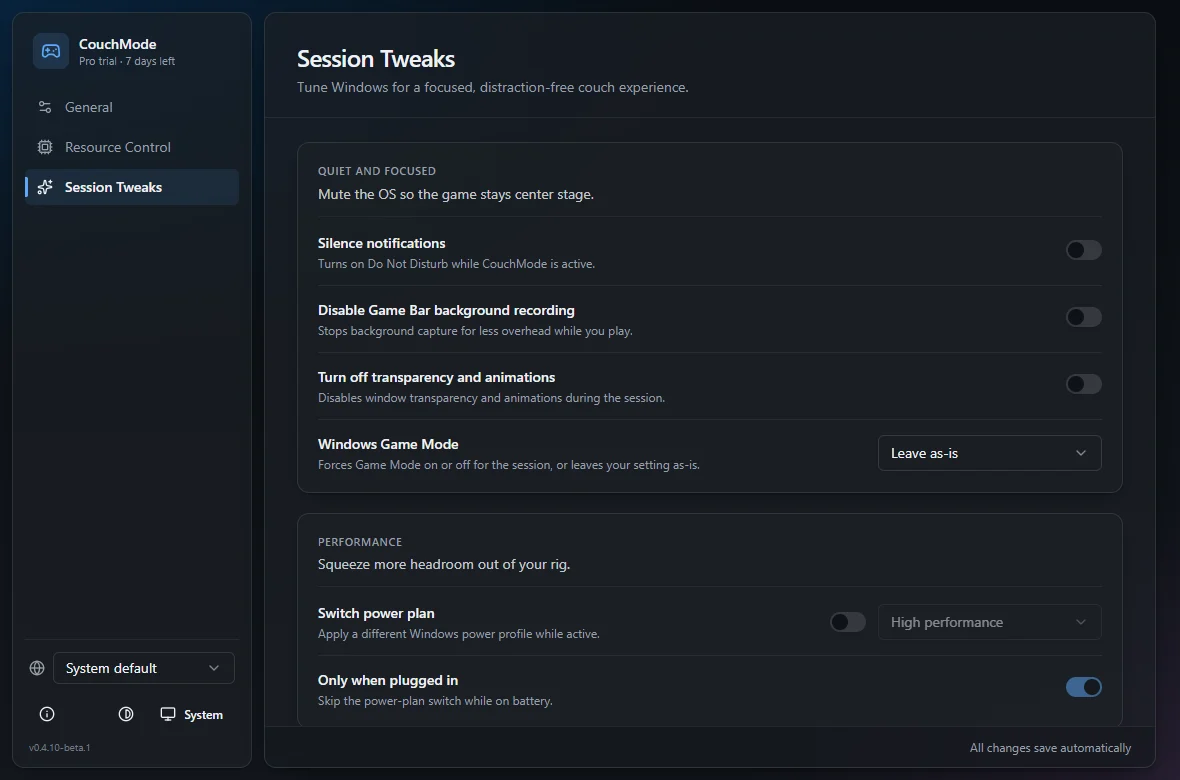
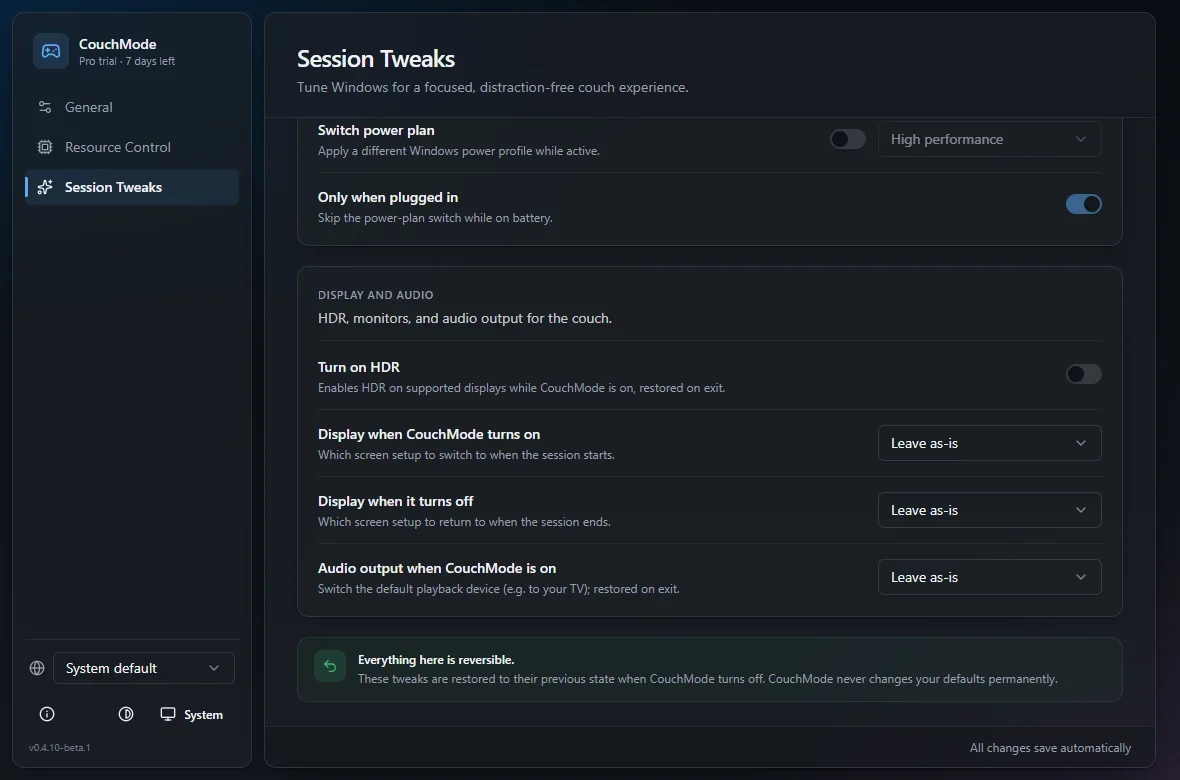
Add inside app showcase

diff --git a/src/components/landing/ProductScreenshots.tsx b/src/components/landing/ProductScreenshots.tsx
@@ -1,54 +1,100 @@
+import { ChevronLeft, ChevronRight } from "lucide-react";
+import { useRef } from "react";
+
 const screenshots = [
   {
     src: "/screenshots/couchmode-general.webp",
-    title: "Session controls",
+    screen: "General",
+    title: "Start the session your way",
     alt: "CouchMode app showing general session controls, controller status, launch mode, and startup settings",
     caption:
-      "Arm the basic couch session, choose how it starts, and see controller status at a glance.",
+      "Arm CouchMode from controller connect, app start, or manual launch.",
   },
   {
-    src: "/screenshots/couchmode-resource-control.webp",
-    title: "Resource Control",
+    src: "/screenshots/couchmode-resource-control-compact.webp",
+    screen: "Resource Control",
+    title: "Close and restore selected apps",
     alt: "CouchMode app showing Resource Control settings for closing, reopening, and launching apps around a session",
     caption:
-      "Choose which apps close, reopen, or launch around a play session.",
+      "Choose what CouchMode closes before play and restores when the session ends.",
+  },
+  {
+    src: "/screenshots/couchmode-app-picker.webp",
+    screen: "App Picker",
+    title: "Pick apps with more control",
+    alt: "CouchMode app picker showing common apps that can be selected for session management",
+    caption:
+      "See common background apps and choose exactly what should be managed.",
   },
   {
     src: "/screenshots/couchmode-session-tweaks.webp",
-    title: "Session Tweaks",
+    screen: "Session Tweaks",
+    title: "Tune Windows for couch play",
     alt: "CouchMode app showing Session Tweaks for notifications, power plan, display, HDR, and audio options",
     caption:
-      "Tune notifications, power, display, HDR, and audio behavior for the couch.",
+      "Adjust notifications, display, HDR, audio, and power behavior where supported.",
   },
 ];
 
 export { screenshots as productScreenshots };
 
 export function ProductScreenshots() {
+  const scrollerRef = useRef<HTMLDivElement>(null);
+
+  const scrollByCard = (direction: -1 | 1) => {
+    const scroller = scrollerRef.current;
+    if (!scroller) return;
+
+    scroller.scrollBy({
+      left: direction * Math.min(scroller.clientWidth * 0.82, 620),
+      behavior: "smooth",
+    });
+  };
+
   return (
-    <section className="relative py-20 sm:py-28" aria-labelledby="screenshots-heading">
+    <section
+      id="product"
+      className="relative py-16 sm:py-24"
+      aria-labelledby="product-heading"
+    >
       <div className="mx-auto max-w-7xl px-4 sm:px-6 lg:px-8">
-        <div className="max-w-2xl">
-          <p className="mb-4 text-sm font-medium text-aurora">App preview</p>
-          <h2
-            id="screenshots-heading"
-            className="text-3xl font-semibold leading-tight tracking-tight sm:text-4xl lg:text-5xl"
-          >
-            See the current CouchMode beta before you install it.
-          </h2>
-          <p className="mt-5 text-muted-foreground">
-            These screens are from the 0.4.10-beta.1 app UI and show the
-            settings users manage before a couch session.
-          </p>
+        <div className="flex items-end justify-between gap-6">
+          <div className="max-w-2xl">
+            <p className="mb-4 text-sm font-medium text-aurora">Inside the app</p>
+            <h2
+              id="product-heading"
+              className="text-3xl font-semibold leading-tight tracking-tight sm:text-4xl lg:text-5xl"
+            >
+              The controls behind your couch session.
+            </h2>
+            <p className="mt-5 text-muted-foreground">
+              A compact look at the current 0.4.10-beta.1 interface before
+              public download goes live.
+            </p>
+          </div>
+
+          <div className="hidden md:flex items-center gap-2">
+            <CarouselButton
+              label="Previous screenshot"
+              direction="previous"
+              onClick={() => scrollByCard(-1)}
+            />
+            <CarouselButton
+              label="Next screenshot"
+              direction="next"
+              onClick={() => scrollByCard(1)}
+            />
+          </div>
         </div>
 
-        <div className="mt-12 grid gap-5 lg:grid-cols-[1.45fr_1fr]">
-          <ScreenshotCard screenshot={screenshots[0]} featured />
-          <div className="grid gap-5">
-            {screenshots.slice(1).map((screenshot) => (
-              <ScreenshotCard key={screenshot.src} screenshot={screenshot} />
-            ))}
-          </div>
+        <div
+          ref={scrollerRef}
+          className="mt-10 flex snap-x snap-mandatory gap-4 overflow-x-auto scroll-smooth pb-5 [scrollbar-width:none] [-ms-overflow-style:none] [&::-webkit-scrollbar]:hidden"
+          aria-label="CouchMode app screenshots"
+        >
+          {screenshots.map((screenshot) => (
+            <ScreenshotCard key={screenshot.src} screenshot={screenshot} />
+          ))}
         </div>
       </div>
     </section>
@@ -57,25 +103,51 @@ export function ProductScreenshots() {
 
 function ScreenshotCard({
   screenshot,
-  featured = false,
 }: {
   screenshot: (typeof screenshots)[number];
-  featured?: boolean;
 }) {
   return (
-    <article className="overflow-hidden rounded-3xl border border-white/10 bg-white/[0.03]">
-      <img
-        src={screenshot.src}
-        alt={screenshot.alt}
-        loading="lazy"
-        className="aspect-[16/10] w-full object-cover"
-      />
-      <div className={featured ? "p-5 sm:p-6" : "p-5"}>
-        <h3 className="text-sm font-medium text-foreground">{screenshot.title}</h3>
+    <article className="snap-start shrink-0 basis-[86vw] overflow-hidden rounded-3xl border border-white/10 bg-white/[0.03] sm:basis-[520px] lg:basis-[560px]">
+      <div className="bg-background/40">
+        <img
+          src={screenshot.src}
+          alt={screenshot.alt}
+          loading="lazy"
+          className="aspect-[16/10] w-full object-cover"
+        />
+      </div>
+      <div className="p-5">
+        <p className="mb-2 text-[11px] font-medium uppercase tracking-[0.2em] text-aurora/80">
+          {screenshot.screen}
+        </p>
+        <h3 className="text-base font-medium text-foreground">{screenshot.title}</h3>
         <p className="mt-2 text-sm leading-relaxed text-muted-foreground">
           {screenshot.caption}
         </p>
       </div>
     </article>
+  );
+}
+
+function CarouselButton({
+  label,
+  direction,
+  onClick,
+}: {
+  label: string;
+  direction: "previous" | "next";
+  onClick: () => void;
+}) {
+  const Icon = direction === "previous" ? ChevronLeft : ChevronRight;
+
+  return (
+    <button
+      type="button"
+      aria-label={label}
+      onClick={onClick}
+      className="grid h-11 w-11 place-items-center rounded-full border border-white/10 bg-white/[0.04] text-foreground transition hover:bg-white/[0.08]"
+    >
+      <Icon className="h-4 w-4" />
+    </button>
   );
 }

diff --git a/src/routes/download.tsx b/src/routes/download.tsx
@@ -75,31 +75,23 @@ function Download() {
         hash.
       </p>
       <section>
-        <h2 className="font-medium text-foreground">App screenshots</h2>
+        <h2 className="font-medium text-foreground">App preview</h2>
         <p className="mt-2">
-          Screens from the current 0.4.10-beta.1 UI.
+          A quick look at the current UI. For the full showcase, see{" "}
+          <a className="text-foreground underline-offset-4 hover:underline" href="/#product">
+            Inside the app
+          </a>
+          .
         </p>
-        <div className="mt-4 grid gap-4">
+        <div className="mt-4 grid grid-cols-2 gap-2 sm:grid-cols-4">
           {productScreenshots.map((screenshot) => (
-            <figure
+            <img
               key={screenshot.src}
-              className="overflow-hidden rounded-2xl border border-white/10 bg-white/[0.03]"
-            >
-              <img
-                src={screenshot.src}
-                alt={screenshot.alt}
-                loading="lazy"
-                className="w-full object-cover"
-              />
-              <figcaption className="border-t border-white/10 p-4">
-                <span className="text-sm font-medium text-foreground">
-                  {screenshot.title}
-                </span>
-                <span className="mt-1 block text-sm text-muted-foreground">
-                  {screenshot.caption}
-                </span>
-              </figcaption>
-            </figure>
+              src={screenshot.src}
+              alt={screenshot.alt}
+              loading="lazy"
+              className="aspect-[16/10] rounded-xl border border-white/10 object-cover"
+            />
           ))}
         </div>
       </section>

diff --git a/src/routes/index.tsx b/src/routes/index.tsx
@@ -89,9 +89,9 @@ function Index() {
         <Hero />
         <Problem />
         <HowItWorks />
+        <ProductScreenshots />
         <Comparison />
         <Features />
-        <ProductScreenshots />
         <SearchIntentFAQ />
         <FinalCTA />
       </main>

diff --git a/src/components/landing/Navbar.tsx b/src/components/landing/Navbar.tsx
@@ -2,6 +2,7 @@ import { useEffect, useState } from "react";
 
 const links = [
   { href: "#how", label: "How it works" },
+  { href: "#product", label: "Product" },
   { href: "#pricing", label: "Pricing" },
   { href: "#features", label: "Features" },
   { href: "#download", label: "Status" },